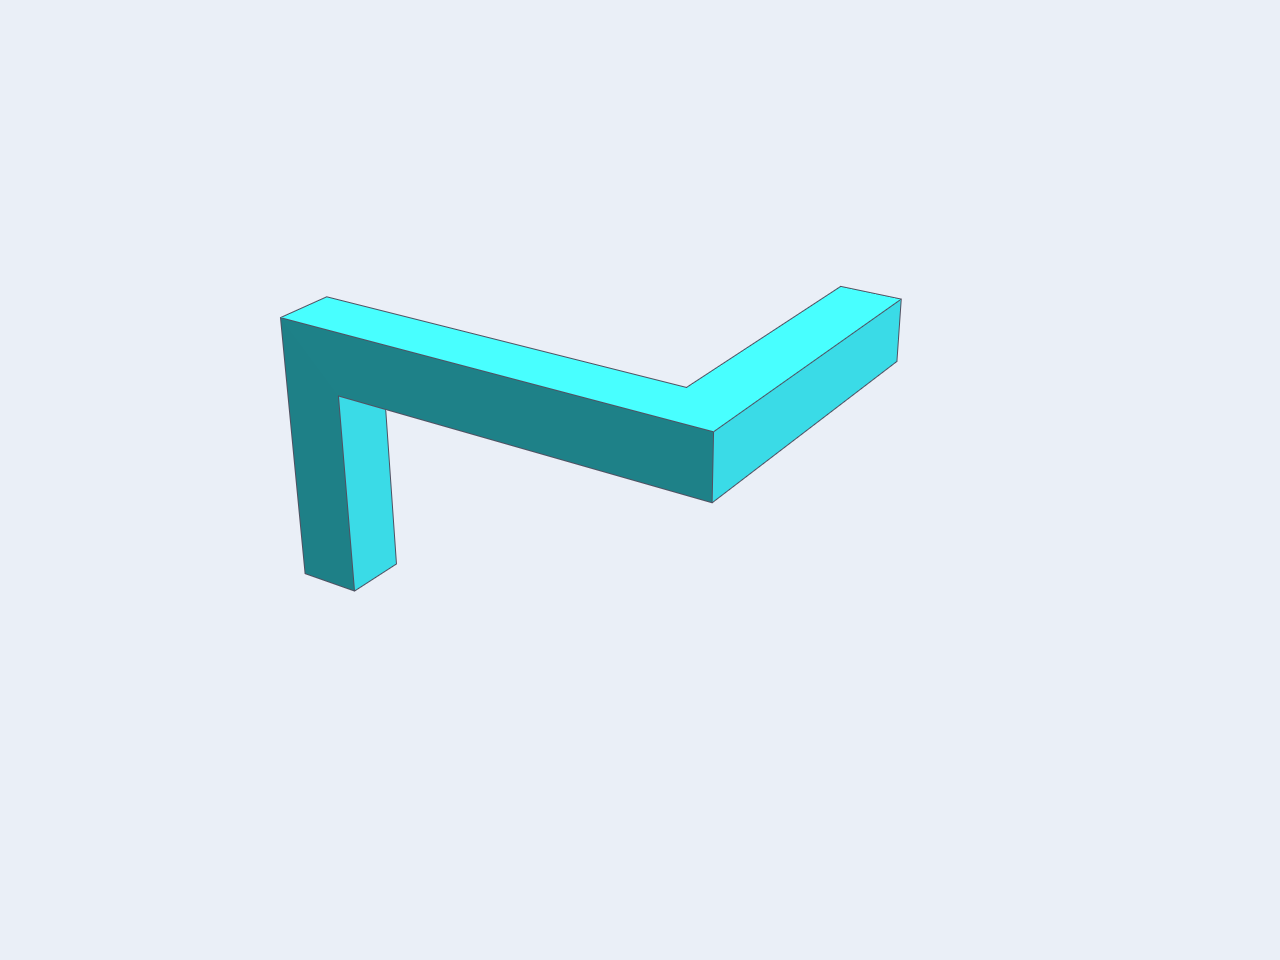
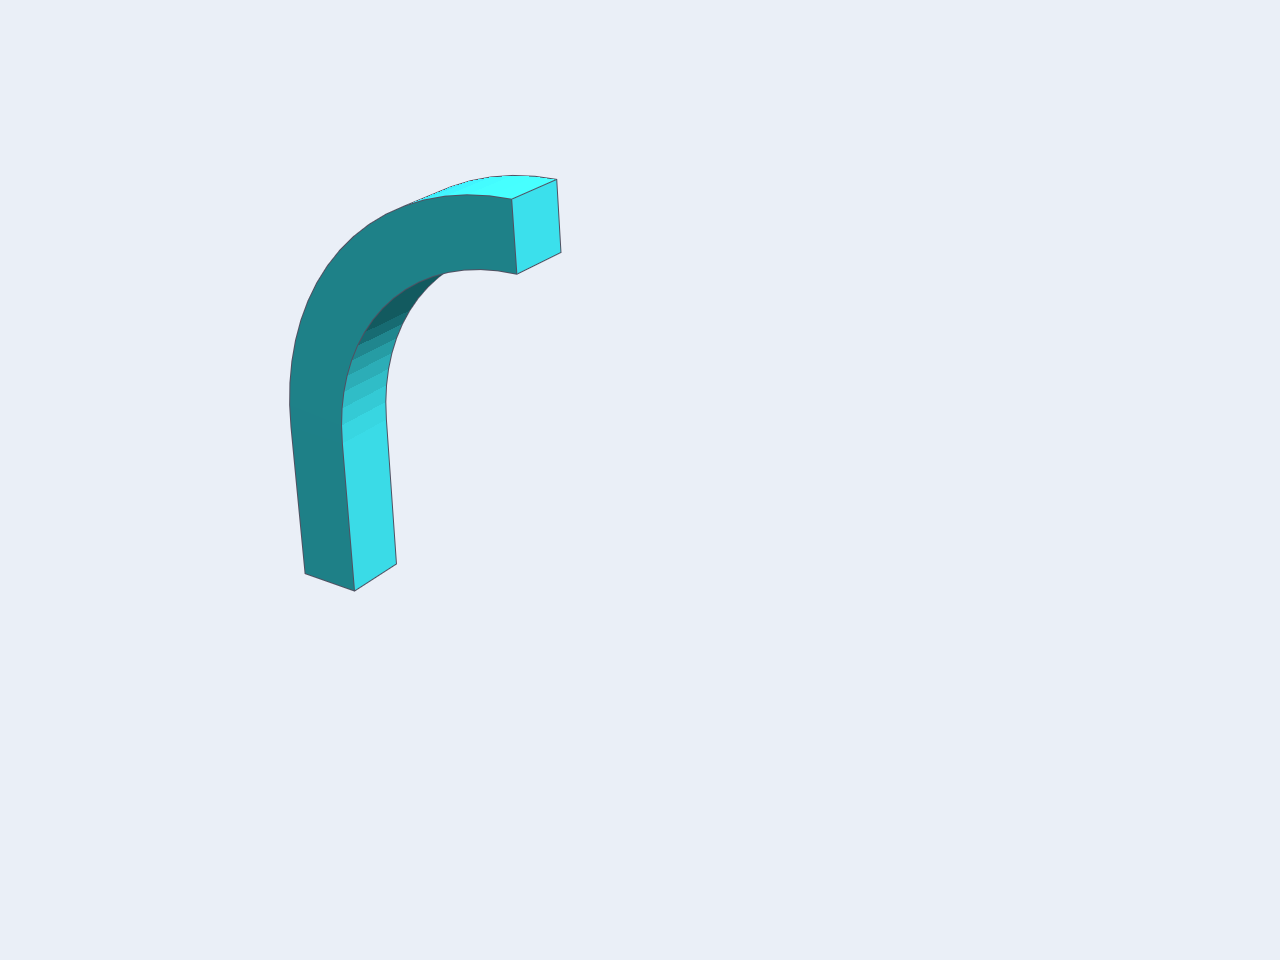
restore a curved sweep gallery path

Changed region(s): [[0.2188, 0.1562, 0.7188, 0.5312]]

diff --git a/_gallery/features.go b/_gallery/features.go
@@ -58,33 +58,42 @@ func featureRenders() []imageRender {
 	return renders
 }
 
-// sweepShot renders one mitred Sweep along a path that turns in two planes.
+// sweepShot renders one Sweep along a short rise and a rounded bend.
 func sweepShot(ctx context.Context, chord units.Value) ([]solidlens.Model, error) {
-	body, err := mitredDuct(ctx, 120)
+	body, err := roundedDuct(ctx, 20, 90)
 	if err != nil {
 		return nil, err
 	}
 	return oneModel(ctx, body, cyan, chord)
 }
 
-// mitredDuct sweeps a square along up to 120mm of a three-span spatial path.
-// Every partial path is one real Sweep body with the same recorded section.
-func mitredDuct(ctx context.Context, length float64) (*decad.Body, error) {
+// roundedDuct approximates a circular bend with short mitred path segments.
+// Every partial path builds one Sweep body from the same recorded section.
+func roundedDuct(ctx context.Context, rise, turnDegrees float64) (*decad.Body, error) {
 	w := sketch.NewWorld()
 	s, profile, err := sketchLoops(ctx, w, w.XY(), rectangle(-34, -24, -26, -16))
 	if err != nil {
 		return nil, err
 	}
-	segments := []decad.PathSegment{
-		decad.LineTo{End: r3.NewVec(-30, -20, min(length, 30))},
+	start := r3.NewVec(-30, -20, 0)
+	bendStart := r3.NewVec(-30, -20, rise)
+	segments := []decad.PathSegment{decad.LineTo{End: bendStart}}
+	pivot := r3.NewVec(0, -20, rise)
+	for angle := 5.0; angle < turnDegrees; angle += 5 {
+		rotation, err := r3.RotationAround(pivot, r3.NewVec(0, 1, 0), units.Degrees(angle))
+		if err != nil {
+			return nil, fmt.Errorf("rotate bend point: %w", err)
+		}
+		segments = append(segments, decad.LineTo{End: rotation.Apply(bendStart)})
 	}
-	if length > 30 {
-		segments = append(segments, decad.LineTo{End: r3.NewVec(-30+min(length-30, 50), -20, 30)})
+	if turnDegrees > 0 {
+		rotation, err := r3.RotationAround(pivot, r3.NewVec(0, 1, 0), units.Degrees(turnDegrees))
+		if err != nil {
+			return nil, fmt.Errorf("rotate bend end: %w", err)
+		}
+		segments = append(segments, decad.LineTo{End: rotation.Apply(bendStart)})
 	}
-	if length > 80 {
-		segments = append(segments, decad.LineTo{End: r3.NewVec(20, -20+min(length-80, 40), 30)})
-	}
-	path, err := decad.NewPath(r3.NewVec(-30, -20, 0), segments...)
+	path, err := decad.NewPath(start, segments...)
 	if err != nil {
 		return nil, fmt.Errorf("record duct path: %w", err)
 	}

diff --git a/_gallery/feature_animation.go b/_gallery/feature_animation.go
@@ -165,7 +165,10 @@ func featureAnimationModels(ctx context.Context, name string, stage int, chord u
 		}
 		return oneModel(ctx, body, blue, chord)
 	case "sweep":
-		body, err := mitredDuct(ctx, float64(stage+1)*120/featureAnimationSteps)
+		const riseSteps = 6
+		rise := min(float64(stage+1)*20/riseSteps, 20)
+		turn := float64(max(stage-riseSteps+1, 0)) * 90 / (featureAnimationSteps - riseSteps)
+		body, err := roundedDuct(ctx, rise, turn)
 		if err != nil {
 			return nil, err
 		}

diff --git a/README.md b/README.md
@@ -65,8 +65,8 @@ meshes decad tessellates.
 </tr>
 <tr>
 <td>
-<img src="docs/images/features/sweep.gif" alt="One square section follows a three-segment 3D path" width="320"><br>
-<strong>Sweep</strong> moves one solved profile along a 3D path with two mitred bends.
+<img src="docs/images/features/sweep.gif" alt="One square section rises and follows a rounded bend" width="320"><br>
+<strong>Sweep</strong> carries one profile around a bend made from short mitred path segments.
 </td>
 <td>
 <img src="docs/images/features/loft.gif" alt="A transition duct grows between two offset rectangles" width="320"><br>
